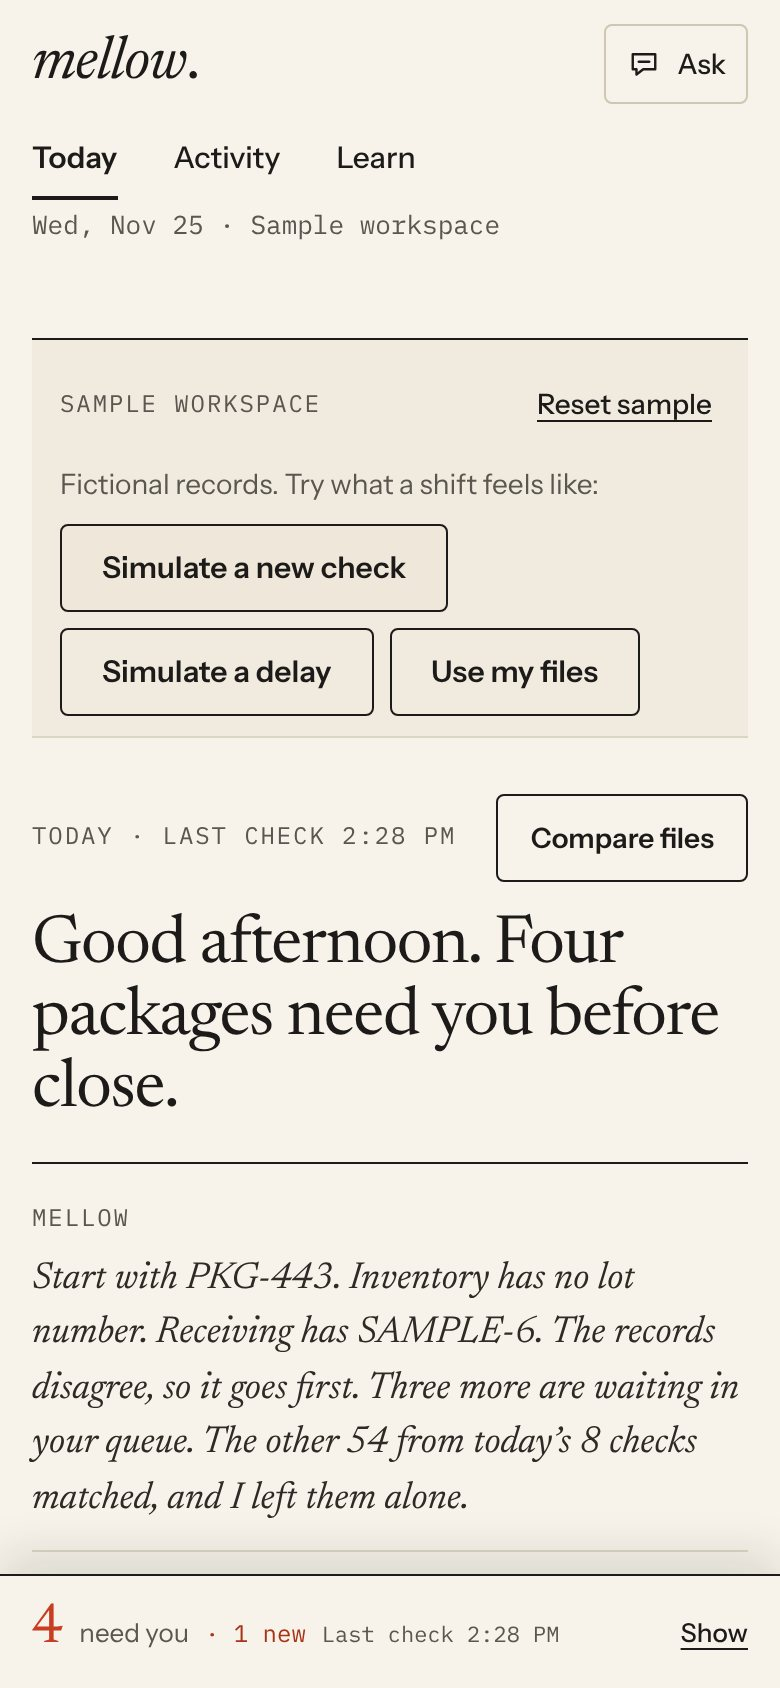
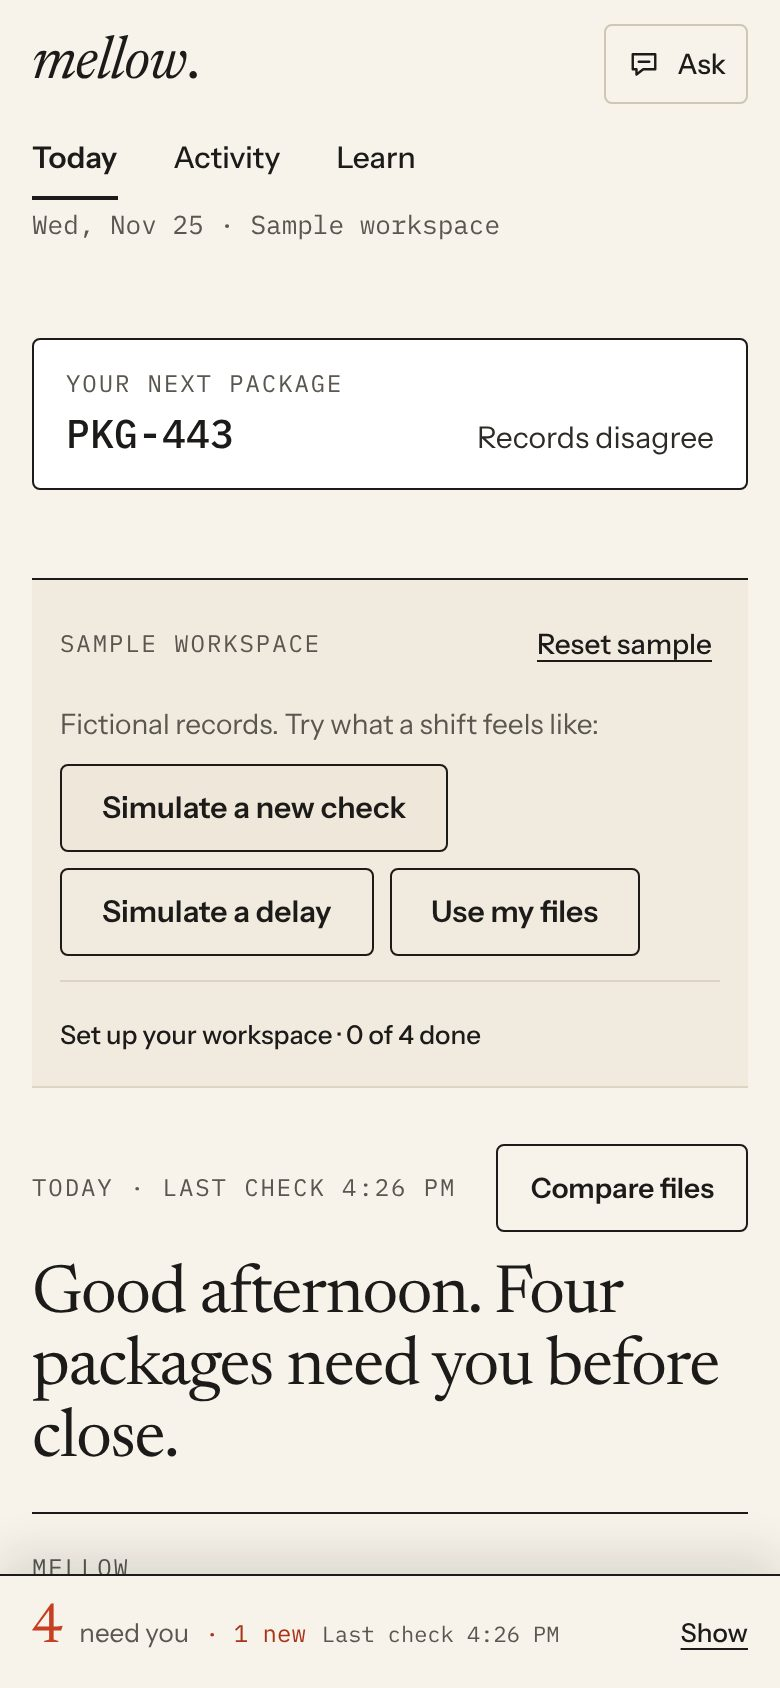
v1.39 release: site claims and screenshots updated to match the product
Claude-Session: https://claude.ai/code/session_01Jd4mNV5YuNRFe6xXXXPVUf

diff --git a/public/welcome/index.html b/public/welcome/index.html
@@ -127,7 +127,7 @@ footer p{margin:0;font:13px var(--mono);color:var(--graphite);max-width:70ch}
   </div>
   <div class="margin-note"><span class="kicker">Mellow</span><p class="voice" style="margin:0">I compare records. I don’t judge them against the law, and I don’t guess.</p></div>
   <p class="facts"><span>Sample data</span><span>No account</span><span>Your files stay in your browser</span></p>
-  <figure class="shot hero-shot"><picture><source media="(max-width: 860px)" srcset="phone.jpg" width="780" height="1688"><img src="today.jpg" width="1600" height="1000" alt="Mellow’s Today page: a briefing that names the first package to check, a note that a new check found one difference, the current record with both sources side by side, and the queue."></picture><figcaption>The demo’s Today page, after a new check. Sample data.</figcaption></figure>
+  <figure class="shot hero-shot"><picture><source media="(max-width: 860px)" srcset="phone.jpg" width="780" height="1688"><img src="today.jpg" width="1600" height="1000" alt="Mellow’s Today page: the sample controls, a briefing that names the first package to check, a note that a new check found one difference, the current record with both sources side by side, and the queue with a chart of today’s checks."></picture><figcaption>The demo’s Today page, after a new check. Sample data.</figcaption></figure>
 </div></section>
 
 <section class="block" id="what" aria-labelledby="what-title"><div class="wrap">
@@ -139,12 +139,14 @@ footer p{margin:0;font:13px var(--mono);color:var(--graphite);max-width:70ch}
       <li>Puts the packages where the records <b>disagree</b> first, then the ones missing a detail.</li>
       <li>Shows <b>what it compared and when</b>, on every answer.</li>
       <li>Speaks first only when a check finds <b>something new</b>.</li>
-      <li>Keeps the day’s <b>trail</b> of decisions and notes.</li>
+      <li>Keeps the <b>trail</b> of decisions and notes, and exports it as CSV or print.</li>
+      <li>Links the <b>Texas hemp rules</b> with their status and dates, as references.</li>
+      <li>Remembers your <b>columns</b>, and clears everything from your device in two steps.</li>
     </ul></div>
     <div><h3 class="not">Doesn’t</h3><ul>
       <li><b>Decide for you.</b> A person records the issue, marks it not an issue, or leaves it for a manager.</li>
-      <li><b>Judge your records against the law.</b> State rules aren’t loaded.</li>
-      <li><b>Score your readiness</b> or predict an inspection.</li>
+      <li><b>Judge your records against the law.</b> It links Texas hemp rules but doesn’t check your records against them.</li>
+      <li><b>Score your readiness,</b> predict an inspection, or predict what lawmakers will do.</li>
       <li><b>Read photos or attachments</b> yet.</li>
       <li><b>Send your files anywhere.</b> In the demo, they stay in your browser.</li>
     </ul></div>
@@ -174,7 +176,7 @@ footer p{margin:0;font:13px var(--mono);color:var(--graphite);max-width:70ch}
         <li><span class="mono">Activity</span><span>The day’s decisions and notes, including the ones that were dismissed.</span></li>
       </ul>
     </div>
-    <figure class="shot"><img src="answer.jpg" width="1264" height="1042" alt="An answer about PKG-443: inventory has no lot number, receiving has SAMPLE-6, the sources disagree. Below it, a Compared stamp naming the two files, the package count and the check time, opened to list what was compared."><figcaption>An answer with its Compared stamp open. Sample data.</figcaption></figure>
+    <figure class="shot"><img src="answer.jpg" width="1184" height="666" alt="An answer about PKG-443: inventory has no lot number, receiving has SAMPLE-6, the sources disagree. Below it, a stamp reading 2 files, PKG-443, and the time of the check it came from."><figcaption>An answer with its stamp: what was compared, and when. Sample data.</figcaption></figure>
   </div>
 </div></section>
 
@@ -183,9 +185,9 @@ footer p{margin:0;font:13px var(--mono);color:var(--graphite);max-width:70ch}
     <div>
       <p class="kicker">On the floor</p>
       <h2 id="floor-title">Works at the back door, on a phone.</h2>
-      <p class="intro">The bar at the bottom always says how many packages need you. After a check finds something, it says what’s new.</p>
+      <p class="intro">On a phone, Today opens on your next package. The bar at the bottom always says how many need you.</p>
     </div>
-    <figure class="shot phone"><img src="phone.jpg" width="780" height="1688" alt="Mellow on a phone: the briefing, and a bar at the bottom reading 4 need you, 1 new, with the time of the last check."><figcaption>The demo at phone width.</figcaption></figure>
+    <figure class="shot phone"><img src="phone.jpg" width="780" height="1688" alt="Mellow on a phone: Your next package, PKG-443, records disagree; the sample controls; the briefing; and a bar at the bottom reading 4 need you, 1 new, with the time of the last check."><figcaption>The demo at phone width.</figcaption></figure>
   </div>
 </div></section>
 

diff --git a/DECISION_LOG.md b/DECISION_LOG.md
@@ -363,3 +363,13 @@ Built as approved (DESIGN_BOARD.md, sprint 4):
   - Review records name their reviewers.
 
 Rules entries were written from official pages retrieved 2026-11-25. Nobody has checked them, and each says so. 92 tests pass. Awaiting the founder's release decision.
+
+## v1.39 released · 2026-11-25
+
+The founder approved the release (Step 6): "Let's deploy the best most up to date experience from discovery to end of life."
+- **Marketing site brought up to date with v1.39.** Content and Voice checked each new claim against the product:
+  - the Does list adds the trail export, Texas hemp rules as references, remembered columns and clearing the device;
+  - the Doesn't list now says rules are linked, not checked, and adds "predict what lawmakers will do";
+  - the phone section says Today opens on your next package;
+  - all three screenshots were retaken from v1.39, with matching alt text.
+- **Still not vetted by people:** real users, a named checker for the rules, and attorney review of the referral and disclaimers.
